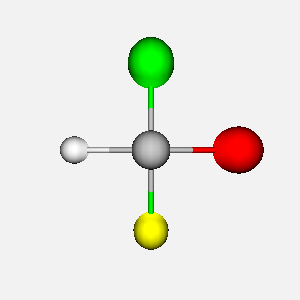
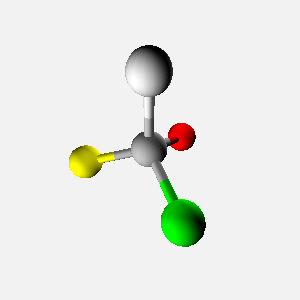
Another 'test' version, ready to show

Changed region(s): [[0.18, 0.12, 0.9, 0.84]]

diff --git a/index.html b/index.html
@@ -31,13 +31,13 @@
       <section id="main_content" class="inner">
       <p>Некий вступительный текст объясняющий то, что изображено на рисунке... Состоит из некоторых абзацев - формируется просто как обычный Html, с возможностью иллюстраций, выделения жирным, курсивом, других видов форматирования. Пишу я всё это только для того, чтобы текст оказался подлиннее и занял несколько строк.</p>
       <div class="render_containers">
-        <!-- <div id="render_container_static"> -->
-        <!--   <img src="images/static_mol.png" width="300" height="300"> -->
-        <!-- </div> -->
+        <div id="render_container_static">
+          <img src="images/static_mol.png" width="300" height="300">
+        </div>
         <div id="render_container">
         </div>
       </div>
-      <p>А здесь продолжается повествование...</p>
+      <p class="drawing-annotation"><em><strong>Рис.1</strong> Как ни крути - совместить не получится!</em></p>
       </section>
     </div>
 

diff --git a/javascripts/main.js b/javascripts/main.js
@@ -7,15 +7,15 @@ $(function() {
 var camera, scene, renderer, controls;
 
 function init() {
-  var SCENE_WIDTH = 500, SCENE_HEIGHT = 500;
+  var SCENE_WIDTH = 300, SCENE_HEIGHT = 300;
 
   camera = new THREE.PerspectiveCamera( 75, SCENE_WIDTH / SCENE_HEIGHT, 1, 10000 );
-  camera.position.x = 0;
-  camera.position.y = 0;
-  camera.position.z = 500;
+  camera.position.x = 150;
+  camera.position.y = 200;
+  camera.position.z = 200;
 
   scene = new THREE.Scene();
-  buildAxes(scene);
+  //buildAxes(scene);
   buildMolecule1(scene);
 
   var keyLight =
@@ -88,8 +88,8 @@ function buildMolecule1(scene) {
   var vertexes = createTetrahedronCoords(200);
   var atomRadius = 30;
 
-  // C, Br, Cl, F, H
-  var atomColors = [ 0xBBBBBB, 0xFF0000, 0x00FF00, 0xFFFF00, 0xEFEFEF ];
+  // C, Cl, Br, F, H
+  var atomColors = [ 0xBBBBBB, 0x00FF00, 0xFF0000, 0xFFFF00, 0xEFEFEF ];
 
   vertexes.forEach(function(v, i) {
     var material = new THREE.MeshLambertMaterial( { color: atomColors[i] } );

diff --git a/stylesheets/stylesheet.css b/stylesheets/stylesheet.css
@@ -430,4 +430,11 @@ Small Device Styles
   clear:both;
 }
 
+em {
+  font-size: smaller;
+}
 
+.drawing-annotation {
+  margin: 0;
+  text-align: center;
+}
